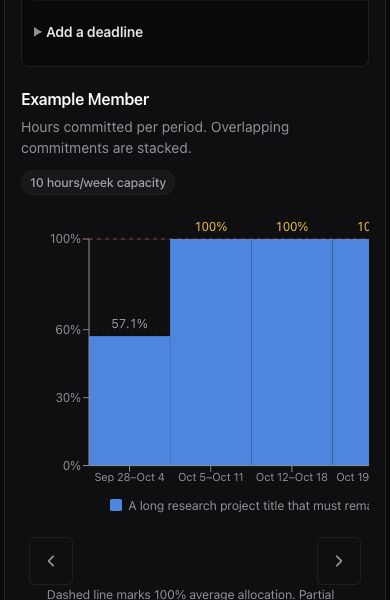
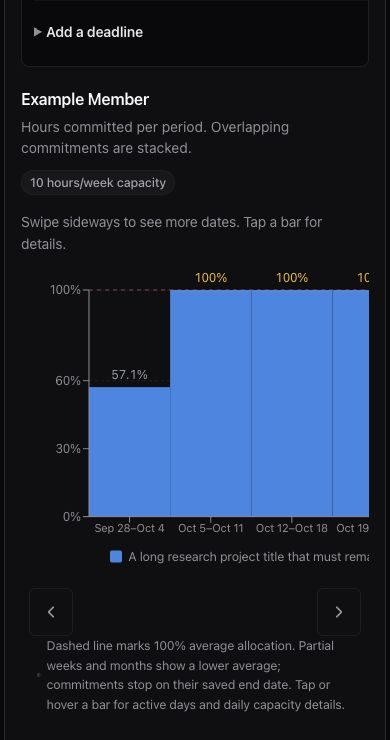
Explain phone chart gestures beside the chart

diff --git a/openclaw-adminbot/ui/src/i18n/locales/en.ts b/openclaw-adminbot/ui/src/i18n/locales/en.ts
@@ -1423,10 +1423,11 @@ export const en: TranslationMap = {
     capacity: "{hours} hours/week capacity",
     // The chart's own footnote, restored with the recharts chart it explains.
     capacityNote:
-      "Dashed line marks 100% average allocation. Partial weeks and months show a lower average; commitments stop on their saved end date. Hover for active days and daily capacity details.",
+      "Dashed line marks 100% average allocation. Partial weeks and months show a lower average; commitments stop on their saved end date. Tap or hover a bar for active days and daily capacity details.",
     capacityNoteUnset:
       "No weekly capacity set on this profile, so there is nothing to compare these hours against.",
     chartAria: "Time allocation chart for {member}",
+    chartPhoneHint: "Swipe sideways to see more dates. Tap a bar for details.",
     chartSubtitle: "Hours committed per period. Overlapping commitments are stacked.",
     empty: "Select a user to view their time allocation.",
     endDate: "End date",

diff --git a/openclaw-adminbot/ui/src/ui/adminbot/views/time-allocation-chart.test.ts b/openclaw-adminbot/ui/src/ui/adminbot/views/time-allocation-chart.test.ts
@@ -59,6 +59,9 @@ describe("the time allocation chart element", () => {
     // recharts needs layout to draw bars, which jsdom does not do -- but the surrounding chrome
     // React renders unconditionally is proof the root mounted and the component ran.
     expect(chart.querySelector(".adminbot-time-chart__pager")).not.toBeNull();
+    expect(chart.querySelector(".adminbot-time-chart__phone-hint")?.textContent).toBe(
+      "Swipe sideways to see more dates. Tap a bar for details.",
+    );
     expect(chart.querySelectorAll(".adminbot-time-chart__page-button").length).toBe(2);
     expect(chart.querySelector(".adminbot-time-chart__plot")?.getAttribute("tabindex")).toBe("0");
   });

diff --git a/openclaw-adminbot/ui/src/styles/time-allocation-chart.css b/openclaw-adminbot/ui/src/styles/time-allocation-chart.css
@@ -6,6 +6,9 @@
 .adminbot-time-chart {
   width: 100%;
 }
+.adminbot-time-chart__phone-hint {
+  display: none;
+}
 .adminbot-time-chart__pager {
   display: flex;
   align-items: center;
@@ -324,6 +327,13 @@
 }
 
 @media (max-width: 600px), (max-width: 932px) and (max-height: 500px) and (orientation: landscape) {
+  .adminbot-time-chart__phone-hint {
+    display: block;
+    margin: 0 0 var(--space-2);
+    color: var(--muted);
+    font-size: var(--control-ui-text-sm);
+  }
+
   .adminbot-time-availability__report {
     grid-template-columns: minmax(0, 1fr);
     min-width: 0;

diff --git a/openclaw-adminbot/ui/src/i18n/locales/ja-JP.ts b/openclaw-adminbot/ui/src/i18n/locales/ja-JP.ts
@@ -1413,6 +1413,7 @@ export const ja_JP: TranslationMap = {
     capacityNoteUnset:
       "No weekly capacity set on this profile, so there is nothing to compare these hours against.",
     chartAria: "Time allocation chart for {member}",
+    chartPhoneHint: "Swipe sideways to see more dates. Tap a bar for details.",
     chartSubtitle: "Hours committed per period. Overlapping commitments are stacked.",
     empty: "Select a user to view their time allocation.",
     endDate: "End date",

diff --git a/openclaw-adminbot/ui/src/i18n/locales/pt-BR.ts b/openclaw-adminbot/ui/src/i18n/locales/pt-BR.ts
@@ -1410,6 +1410,7 @@ export const pt_BR: TranslationMap = {
     capacityNoteUnset:
       "No weekly capacity set on this profile, so there is nothing to compare these hours against.",
     chartAria: "Time allocation chart for {member}",
+    chartPhoneHint: "Swipe sideways to see more dates. Tap a bar for details.",
     chartSubtitle: "Hours committed per period. Overlapping commitments are stacked.",
     empty: "Select a user to view their time allocation.",
     endDate: "End date",

diff --git a/openclaw-adminbot/ui/src/i18n/locales/zh-CN.ts b/openclaw-adminbot/ui/src/i18n/locales/zh-CN.ts
@@ -1393,6 +1393,7 @@ export const zh_CN: TranslationMap = {
     capacityNoteUnset:
       "No weekly capacity set on this profile, so there is nothing to compare these hours against.",
     chartAria: "Time allocation chart for {member}",
+    chartPhoneHint: "Swipe sideways to see more dates. Tap a bar for details.",
     chartSubtitle: "Hours committed per period. Overlapping commitments are stacked.",
     empty: "Select a user to view their time allocation.",
     endDate: "End date",

diff --git a/openclaw-adminbot/ui/src/i18n/locales/zh-TW.ts b/openclaw-adminbot/ui/src/i18n/locales/zh-TW.ts
@@ -1394,6 +1394,7 @@ export const zh_TW: TranslationMap = {
     capacityNoteUnset:
       "No weekly capacity set on this profile, so there is nothing to compare these hours against.",
     chartAria: "Time allocation chart for {member}",
+    chartPhoneHint: "Swipe sideways to see more dates. Tap a bar for details.",
     chartSubtitle: "Hours committed per period. Overlapping commitments are stacked.",
     empty: "Select a user to view their time allocation.",
     endDate: "End date",

diff --git a/openclaw-adminbot/ui/src/i18n/locales/ar.ts b/openclaw-adminbot/ui/src/i18n/locales/ar.ts
@@ -1401,6 +1401,7 @@ export const ar: TranslationMap = {
     capacityNoteUnset:
       "No weekly capacity set on this profile, so there is nothing to compare these hours against.",
     chartAria: "Time allocation chart for {member}",
+    chartPhoneHint: "Swipe sideways to see more dates. Tap a bar for details.",
     chartSubtitle: "Hours committed per period. Overlapping commitments are stacked.",
     empty: "Select a user to view their time allocation.",
     endDate: "End date",

diff --git a/openclaw-adminbot/ui/src/i18n/locales/de.ts b/openclaw-adminbot/ui/src/i18n/locales/de.ts
@@ -1415,6 +1415,7 @@ export const de: TranslationMap = {
     capacityNoteUnset:
       "No weekly capacity set on this profile, so there is nothing to compare these hours against.",
     chartAria: "Time allocation chart for {member}",
+    chartPhoneHint: "Swipe sideways to see more dates. Tap a bar for details.",
     chartSubtitle: "Hours committed per period. Overlapping commitments are stacked.",
     empty: "Select a user to view their time allocation.",
     endDate: "End date",

diff --git a/openclaw-adminbot/ui/src/i18n/locales/es.ts b/openclaw-adminbot/ui/src/i18n/locales/es.ts
@@ -1411,6 +1411,7 @@ export const es: TranslationMap = {
     capacityNoteUnset:
       "No weekly capacity set on this profile, so there is nothing to compare these hours against.",
     chartAria: "Time allocation chart for {member}",
+    chartPhoneHint: "Swipe sideways to see more dates. Tap a bar for details.",
     chartSubtitle: "Hours committed per period. Overlapping commitments are stacked.",
     empty: "Select a user to view their time allocation.",
     endDate: "End date",

diff --git a/openclaw-adminbot/ui/src/i18n/locales/fa.ts b/openclaw-adminbot/ui/src/i18n/locales/fa.ts
@@ -1409,6 +1409,7 @@ export const fa: TranslationMap = {
     capacityNoteUnset:
       "No weekly capacity set on this profile, so there is nothing to compare these hours against.",
     chartAria: "Time allocation chart for {member}",
+    chartPhoneHint: "Swipe sideways to see more dates. Tap a bar for details.",
     chartSubtitle: "Hours committed per period. Overlapping commitments are stacked.",
     empty: "Select a user to view their time allocation.",
     endDate: "End date",

diff --git a/openclaw-adminbot/ui/src/i18n/locales/fr.ts b/openclaw-adminbot/ui/src/i18n/locales/fr.ts
@@ -1416,6 +1416,7 @@ export const fr: TranslationMap = {
     capacityNoteUnset:
       "No weekly capacity set on this profile, so there is nothing to compare these hours against.",
     chartAria: "Time allocation chart for {member}",
+    chartPhoneHint: "Swipe sideways to see more dates. Tap a bar for details.",
     chartSubtitle: "Hours committed per period. Overlapping commitments are stacked.",
     empty: "Select a user to view their time allocation.",
     endDate: "End date",
